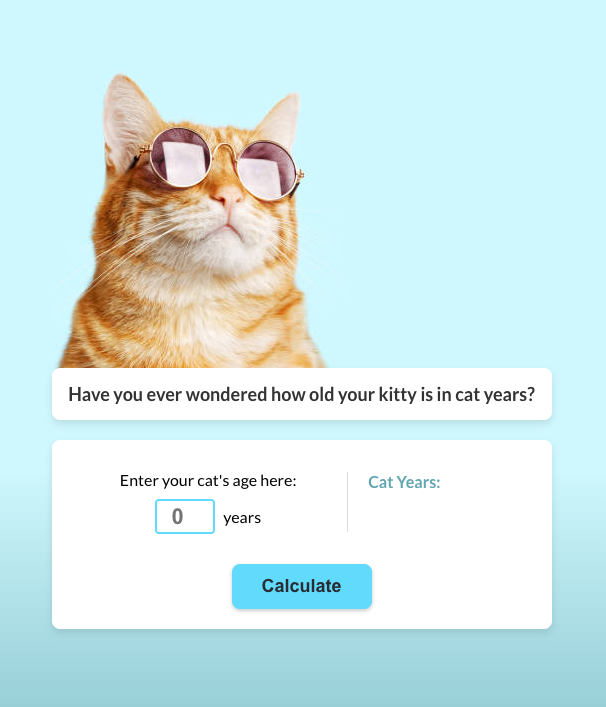
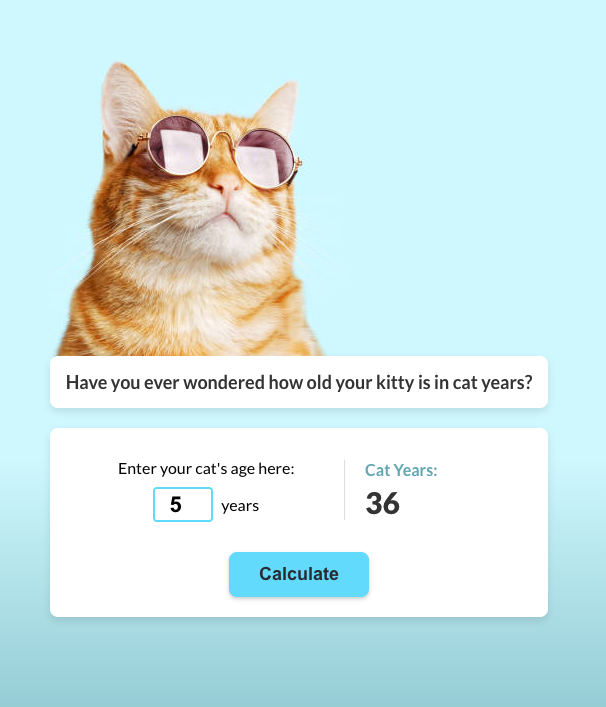
changed screenshot to show app in use

diff --git a/README.md b/README.md
@@ -1,4 +1,4 @@
-Cat Years
+## Cat Years
 
 ![a screenshot of the application](./src/screenshot.png)
 
